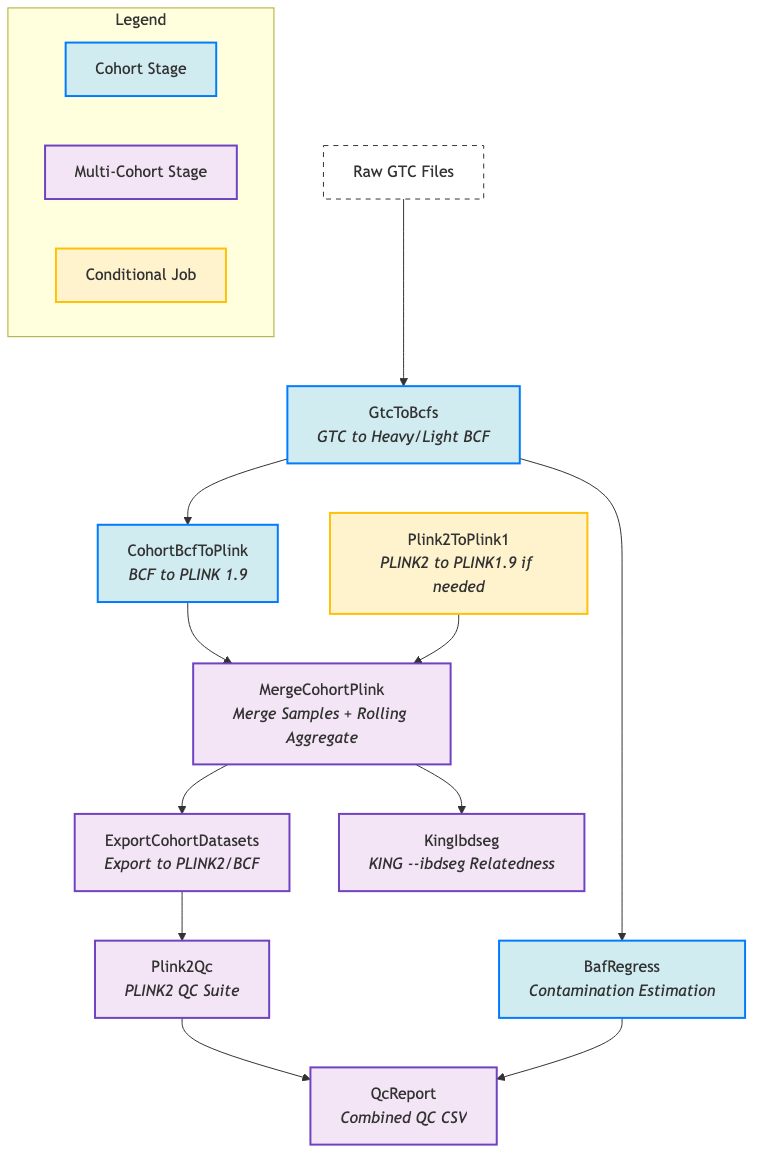
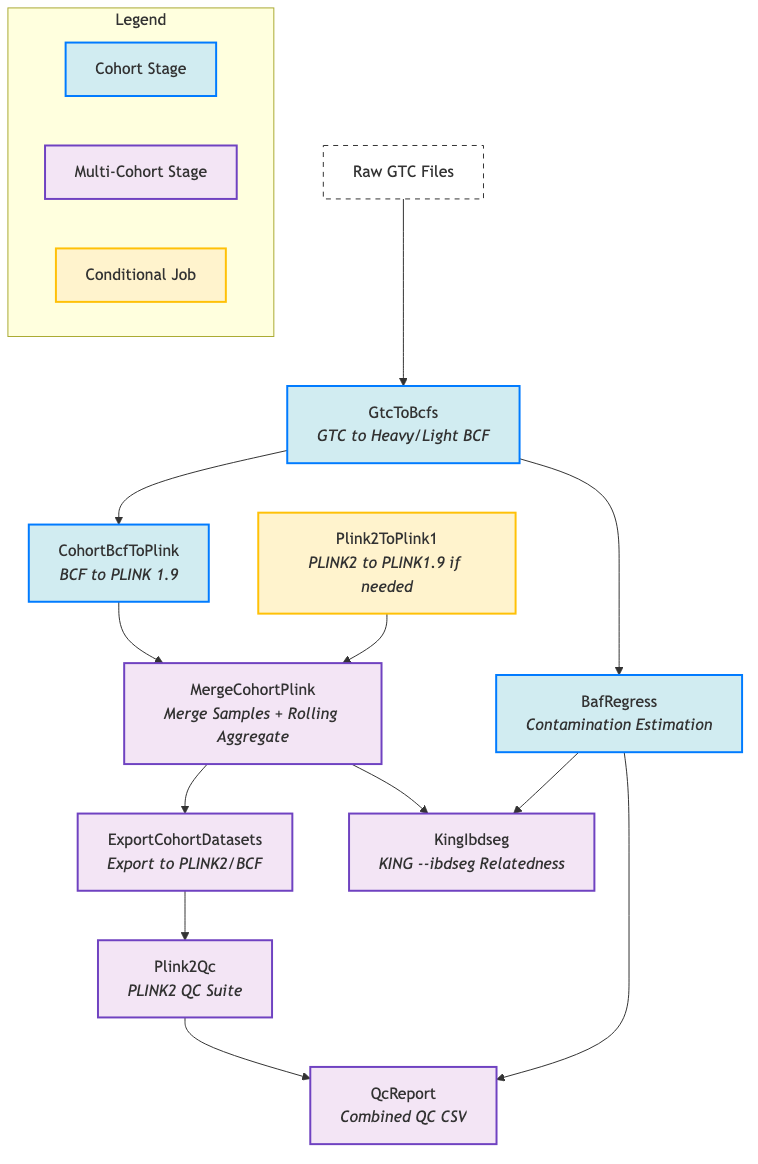
Exclude BAFRegress-failed samples from KING --ibdseg
Adds a contamination pre-filter to KingIbdseg: samples whose BAFRegress
`estimate` is > 0.03, non-numeric, or absent from every per-cohort
BAFRegress output are passed to KING via `--remove` and excluded from
the IBD calculation. This prevents contaminated samples from spuriously
inflating the relatedness graph (and the per-sample RELATED_* CSV
columns downstream), per Michael's review point.

Implementation lives inside the KING job as inline awk so the only
dependency is the king:2.3.2-1 image's busybox shell:
- Build (all .fam FID/IID pairs) from the merged PLINK fileset.
- For each BAFRegress file, parse `sample_id` / `estimate` columns by
  header name, emit IIDs whose estimate matches a strict numeric regex
  (incl. scientific notation) and is <= 0.03.
- remove = all_samples \ good_iids — set diff via awk NR==FNR, so the
  "absent from any BAFRegress" case is handled by the same operation.
- KING is invoked with --remove only when the list is non-empty;
  excluded count + total is echoed to the captured KING log.

KingIbdseg now declares BafRegress as a required_stage and resolves
the per-cohort outputs via inputs.as_path_by_target(stage=BafRegress).

Threshold is hardcoded at 0.03 as a module constant
(BAFREGRESS_THRESHOLD), following the BAFRegress paper convention. The
test reproduction script in test/scripts/pipeline_stages/king_ibdseg.py
mirrors the same filter so the local Docker harness exercises the
contamination-exclusion path. DAG diagram regenerated.

diff --git a/src/popgen_genotyping/jobs/king_ibdseg_job.py b/src/popgen_genotyping/jobs/king_ibdseg_job.py
@@ -24,11 +24,18 @@ _AUTOSOME_SEG_HEADER: str = 'FID1\tID1\tFID2\tID2\tIBD1Seg\tIBD2Seg\tPropIBD\tIn
 # combination of the pair, not on a single categorical).
 _X_SEG_HEADER: str = 'FID1\tID1\tFID2\tID2\tSex1\tSex2\tMaxIBD1\tMaxIBD2\tIBD1Seg\tIBD2Seg\tPropIBD'
 
+# Maximum BAFRegress contamination estimate accepted before a sample is excluded
+# from the IBD calculation. The 3% cutoff follows the BAFRegress convention
+# (Jun et al. 2012, doi:10.1016/j.ajhg.2012.09.004); samples whose estimate is
+# above this, non-numeric, or absent from any BAFRegress output are dropped.
+BAFREGRESS_THRESHOLD: float = 0.03
+
 
 def run_king_ibdseg(
     bed_path: str,
     bim_path: str,
     fam_path: str,
+    bafregress_paths: list[str],
     output_seg_path: str,
     output_segments_path: str,
     output_seg_x_path: str,
@@ -53,6 +60,10 @@ def run_king_ibdseg(
         bed_path: Cloud path to the PLINK 1.9 .bed file.
         bim_path: Cloud path to the PLINK 1.9 .bim file.
         fam_path: Cloud path to the PLINK 1.9 .fam file.
+        bafregress_paths: Per-cohort BAFRegress output files. Samples whose
+            ``estimate`` column exceeds ``BAFREGRESS_THRESHOLD``, is
+            non-numeric, or is absent from every file are dropped from the
+            KING run via ``--remove``.
         output_seg_path: Cloud path for the autosomal .seg pairwise summary.
         output_segments_path: Cloud path for the autosomal .segments.gz detail.
         output_seg_x_path: Cloud path for the X-chr .seg pairwise summary.
@@ -75,6 +86,7 @@ def run_king_ibdseg(
     )
 
     plink_input = b.read_input_group(bed=bed_path, bim=bim_path, fam=fam_path)
+    bafregress_files = [b.read_input(p) for p in bafregress_paths]
 
     j.declare_resource_group(
         king_outputs={
@@ -86,15 +98,65 @@ def run_king_ibdseg(
         },
     )
 
+    # Build a KING --remove list of samples that fail the BAFRegress
+    # contamination filter. "Fail" means: estimate > BAFREGRESS_THRESHOLD,
+    # estimate is non-numeric, or the sample is absent from every BAFRegress
+    # file. Built as (all .fam IIDs) \ (IIDs with a numeric estimate <= threshold)
+    # so that the absent-from-BAFRegress case is handled by the same set diff.
+    #
     # KING omits the .seg / .segments.gz files entirely when no pairs cross the
     # IBD-segment threshold, and omits the X variants entirely when the input
     # has no chrX SNPs. Backfill empty placeholders so Hail Batch's output check
     # succeeds and downstream stages see a well-formed (header-only) table.
+    bafregress_inputs_block = ' '.join(bafregress_files) if bafregress_files else ''
     j.command(
         f"""
-        set -ex
-        king -b {plink_input.bed} --ibdseg --degree 3 --cpus $(nproc) \\
-            --prefix {j.king_outputs} 2>&1 | tee {j.king_outputs.log}
+        set -euo pipefail
+
+        # All FID/IID pairs in the merged PLINK fileset, sorted by IID.
+        awk '{{print $1"\\t"$2}}' {plink_input.fam} | sort -k2,2 > all_samples.tsv
+
+        # IIDs with a numeric BAFRegress estimate <= {BAFREGRESS_THRESHOLD}.
+        : > good_iids.txt
+        for baf in {bafregress_inputs_block}; do
+            awk -v thresh={BAFREGRESS_THRESHOLD} '
+                NR==1 {{
+                    sid_col = 0; est_col = 0
+                    for (i=1; i<=NF; i++) {{
+                        if ($i == "sample_id") sid_col = i
+                        else if ($i == "estimate") est_col = i
+                    }}
+                    if (sid_col == 0 || est_col == 0) {{
+                        print "ERROR: missing sample_id or estimate column in " FILENAME > "/dev/stderr"
+                        exit 1
+                    }}
+                    next
+                }}
+                $est_col ~ /^-?[0-9]+\\.?[0-9]*([eE][-+]?[0-9]+)?$/ && ($est_col + 0) <= thresh {{
+                    print $sid_col
+                }}
+            ' "$baf" >> good_iids.txt
+        done
+        sort -u good_iids.txt -o good_iids.txt
+
+        # remove = samples in .fam whose IID is not in good_iids.
+        awk 'NR==FNR{{good[$1]=1; next}} !($2 in good) {{print $1"\\t"$2}}' \\
+            good_iids.txt all_samples.tsv > remove_samples.tsv
+
+        n_total=$(wc -l < all_samples.tsv)
+        n_remove=$(wc -l < remove_samples.tsv)
+        echo "BAFRegress contamination filter: excluding $n_remove / $n_total samples" \\
+             "(estimate > {BAFREGRESS_THRESHOLD}, non-numeric, or absent)"
+
+        if [ "$n_remove" -gt 0 ]; then
+            king -b {plink_input.bed} --ibdseg --degree 3 --cpus $(nproc) \\
+                --remove remove_samples.tsv \\
+                --prefix {j.king_outputs} 2>&1 | tee {j.king_outputs.log}
+        else
+            king -b {plink_input.bed} --ibdseg --degree 3 --cpus $(nproc) \\
+                --prefix {j.king_outputs} 2>&1 | tee {j.king_outputs.log}
+        fi
+
         if [ ! -s {j.king_outputs.seg} ]; then
             printf '%s\\n' '{_AUTOSOME_SEG_HEADER}' > {j.king_outputs.seg}
         fi

diff --git a/test/scripts/pipeline_stages/king_ibdseg.py b/test/scripts/pipeline_stages/king_ibdseg.py
@@ -11,10 +11,21 @@ from scripts.testing_utils import (
     to_container,
 )
 
+# Keep in sync with popgen_genotyping.jobs.king_ibdseg_job.BAFREGRESS_THRESHOLD.
+BAFREGRESS_THRESHOLD: float = 0.03
 
-def run_king_ibdseg(plink1_prefix_host: Path, prefix: str = 'king') -> dict[str, Path]:
+
+def run_king_ibdseg(
+    plink1_prefix_host: Path,
+    bafregress_paths_host: list[Path],
+    prefix: str = 'king',
+) -> dict[str, Path]:
     """
     Run KING `--ibdseg` against the merged PLINK 1.9 dataset in Docker.
+
+    Mirrors the production stage: builds a ``--remove`` list of samples whose
+    BAFRegress ``estimate`` is non-numeric, missing, or above
+    ``BAFREGRESS_THRESHOLD``, then runs ``king --ibdseg --degree 3``.
 
     KING 2.3.2 emits autosome outputs at ``{prefix}.seg`` / ``{prefix}.segments.gz``
     and, when the input contains chrX SNPs (as it will for any reproduction whose
@@ -24,6 +35,8 @@ def run_king_ibdseg(plink1_prefix_host: Path, prefix: str = 'king') -> dict[str,
     Args:
         plink1_prefix_host (Path): Host path prefix for the merged PLINK 1.9
             fileset (i.e. the prefix shared by .bed/.bim/.fam).
+        bafregress_paths_host (list[Path]): Host paths of the BAFRegress
+            ``.txt`` outputs, one per cohort.
         prefix (str): KING output prefix.
 
     Returns:
@@ -34,14 +47,53 @@ def run_king_ibdseg(plink1_prefix_host: Path, prefix: str = 'king') -> dict[str,
     king_dir.mkdir(parents=True, exist_ok=True)
 
     bed_int: str = to_container(plink1_prefix_host.with_suffix('.bed'))
+    fam_int: str = to_container(plink1_prefix_host.with_suffix('.fam'))
     king_prefix_host: Path = king_dir / prefix
     king_prefix_int: str = to_container(king_prefix_host)
     log_int: str = to_container(king_dir / f'{prefix}.log')
 
-    cmd: str = (
-        f"bash -c 'king -b {bed_int} --ibdseg --degree 3 --cpus $(nproc) "
-        f"--prefix {king_prefix_int} 2>&1 | tee {log_int}'"
+    baf_inputs: str = ' '.join(to_container(p) for p in bafregress_paths_host)
+    awk_program: str = (
+        'NR==1 {'
+        ' sid_col = 0; est_col = 0;'
+        ' for (i=1; i<=NF; i++) {'
+        '   if ($i == "sample_id") sid_col = i;'
+        '   else if ($i == "estimate") est_col = i;'
+        ' }'
+        ' if (sid_col == 0 || est_col == 0) {'
+        '   print "ERROR: missing sample_id or estimate column in " FILENAME > "/dev/stderr";'
+        '   exit 1;'
+        ' }'
+        ' next;'
+        '} '
+        '$est_col ~ /^-?[0-9]+\\.?[0-9]*([eE][-+]?[0-9]+)?$/ && ($est_col + 0) <= thresh {'
+        ' print $sid_col;'
+        '}'
     )
+    filter_block: str = (
+        f'awk \'{{print $1"\\t"$2}}\' {fam_int} | sort -k2,2 > /tmp/all_samples.tsv && '
+        f': > /tmp/good_iids.txt && '
+        f'for baf in {baf_inputs}; do '
+        f'  awk -v thresh={BAFREGRESS_THRESHOLD} \'{awk_program}\' "$baf" >> /tmp/good_iids.txt; '
+        f'done && '
+        f'sort -u /tmp/good_iids.txt -o /tmp/good_iids.txt && '
+        f'awk \'NR==FNR{{good[$1]=1; next}} !($2 in good) {{print $1"\\t"$2}}\' '
+        f'  /tmp/good_iids.txt /tmp/all_samples.tsv > /tmp/remove_samples.tsv && '
+        f'n_total=$(wc -l < /tmp/all_samples.tsv) && '
+        f'n_remove=$(wc -l < /tmp/remove_samples.tsv) && '
+        f'echo "BAFRegress contamination filter: excluding $n_remove / $n_total samples '
+        f'(estimate > {BAFREGRESS_THRESHOLD}, non-numeric, or absent)"'
+    )
+    king_block: str = (
+        f'if [ "$n_remove" -gt 0 ]; then '
+        f'  king -b {bed_int} --ibdseg --degree 3 --cpus $(nproc) '
+        f'    --remove /tmp/remove_samples.tsv --prefix {king_prefix_int} 2>&1 | tee {log_int}; '
+        f'else '
+        f'  king -b {bed_int} --ibdseg --degree 3 --cpus $(nproc) '
+        f'    --prefix {king_prefix_int} 2>&1 | tee {log_int}; '
+        f'fi'
+    )
+    cmd: str = f"bash -c '{filter_block} && {king_block}'"
     run_docker(KING_IMAGE, cmd)
 
     outputs: dict[str, Path] = {

diff --git a/src/popgen_genotyping/stages.py b/src/popgen_genotyping/stages.py
@@ -343,7 +343,7 @@ class Plink2Qc(MultiCohortStage):
 
 
 @stage(
-    required_stages=[MergeCohortPlink],
+    required_stages=[MergeCohortPlink, BafRegress],
     analysis_type='array_relatedness_ibdseg',
     analysis_keys=['seg', 'seg_x'],
 )
@@ -375,15 +375,23 @@ class KingIbdseg(MultiCohortStage):
     def queue_jobs(self, multicohort: MultiCohort, inputs: StageInput) -> StageOutput:
         """
         Queue the KING `--ibdseg` job against the merged PLINK 1.9 dataset.
+
+        Per-cohort BAFRegress outputs are gathered and passed through; the job
+        excludes samples whose contamination estimate fails the BAFRegress
+        threshold (see ``BAFREGRESS_THRESHOLD`` in ``king_ibdseg_job``).
         """
         outputs: dict[str, Path] = self.expected_outputs(multicohort=multicohort)
 
         merged_plink: dict[str, Path] = inputs.as_dict(target=multicohort, stage=MergeCohortPlink)
 
+        bafregress_outputs: dict[str, Path] = inputs.as_path_by_target(stage=BafRegress)
+        bafregress_paths: list[str] = [str(baf_out) for baf_out in bafregress_outputs.values()]
+
         j: BashJob = run_king_ibdseg(
             bed_path=str(merged_plink['bed']),
             bim_path=str(merged_plink['bim']),
             fam_path=str(merged_plink['fam']),
+            bafregress_paths=bafregress_paths,
             output_seg_path=str(outputs['seg']),
             output_segments_path=str(outputs['segments']),
             output_seg_x_path=str(outputs['seg_x']),

diff --git a/test/scripts/reproduce_full_pipeline.py b/test/scripts/reproduce_full_pipeline.py
@@ -45,7 +45,7 @@ def main() -> None:
     heavy_bcf_host, light_bcf_host = run_gtc_to_bcfs(samples, gtc_paths_int)
 
     # 3. Stage: BafRegress
-    _baf_out_host = run_bafregress(heavy_bcf_host, af_ref_int)
+    baf_out_host = run_bafregress(heavy_bcf_host, af_ref_int)
 
     # 4. Stage: CohortBcfToPlink
     plink1_prefix_host = run_cohort_bcf_to_plink(samples, light_bcf_host, sex_mapping)
@@ -53,8 +53,9 @@ def main() -> None:
     # 5. Stage: ExportCohortDatasets
     _final_bcf_host = run_export_cohort_datasets(plink1_prefix_host)
 
-    # 6. Stage: KingIbdseg (runs against the merged PLINK 1.9 dataset).
-    king_outputs = run_king_ibdseg(plink1_prefix_host)
+    # 6. Stage: KingIbdseg (runs against the merged PLINK 1.9 dataset; uses the
+    #    BAFRegress output to exclude contaminated samples before IBD inference).
+    king_outputs = run_king_ibdseg(plink1_prefix_host, [baf_out_host])
     print('\nKING outputs:')
     for key, path in king_outputs.items():
         exists = 'OK' if path.exists() else 'MISSING'

diff --git a/README.md b/README.md
@@ -17,7 +17,7 @@ The pipeline is composed of several sequential stages, orchestrated by `cpg-flow
 - **MergeCohortPlink**: Merges PLINK files from multiple cohorts into a single, unified dataset. This stage also supports a "rolling aggregate" workflow, where new samples can be added to a previously generated aggregate.
 - **ExportCohortDatasets**: Converts the merged PLINK 1.9 dataset into PLINK2 (`.pgen`) format for long-term storage and analysis, and `.bcf` format in temporary storage for ancestry analysis.
 - **Plink2Qc**: Performs a standard suite of quality control checks on the final PLINK2 dataset, including sample/variant missingness, allele frequency, HWE, heterozygosity, and kinship.
-- **KingIbdseg**: Runs KING `--ibdseg --degree 3` against the merged PLINK 1.9 dataset to call pairwise IBD segments. Emits autosomal `.seg` / `.segments.gz` and (when chrX SNPs are present) X-chr companions `X.seg` / `X.segments.gz`, plus the captured KING log. Outputs land in long-term storage and are registered as an `array_relatedness_ibdseg` Metamist analysis; folding the pairwise summary into the QC CSV is tracked as a follow-up.
+- **KingIbdseg**: Runs KING `--ibdseg --degree 3` against the merged PLINK 1.9 dataset to call pairwise IBD segments. Excludes samples whose `BafRegress` contamination `estimate` exceeds 0.03 (or is non-numeric / absent) via KING's `--remove` flag, so contaminated samples can't spuriously inflate the relatedness graph. Emits autosomal `.seg` / `.segments.gz` and (when chrX SNPs are present) X-chr companions `X.seg` / `X.segments.gz`, plus the captured KING log. Outputs land in long-term storage and are registered as an `array_relatedness_ibdseg` Metamist analysis; folding the pairwise summary into the QC CSV is tracked as a follow-up.
 
 ## Prerequisites
 Before running the pipeline, ensure you have the following tools installed and configured: